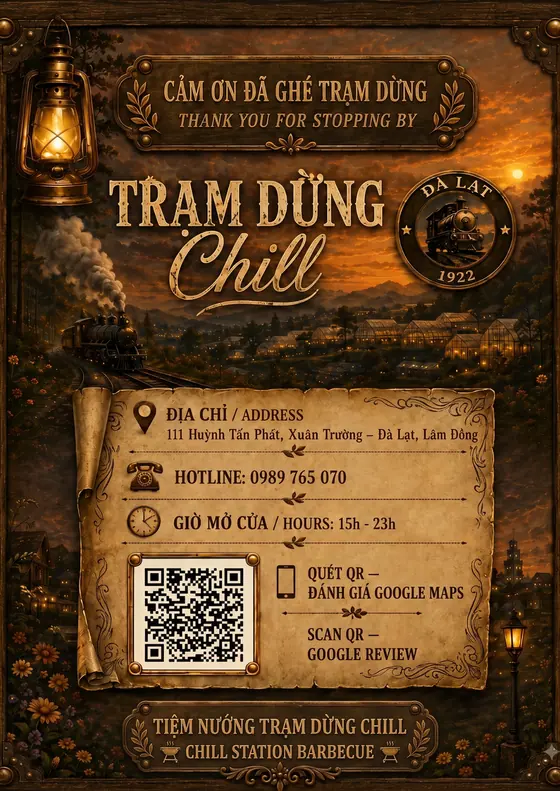
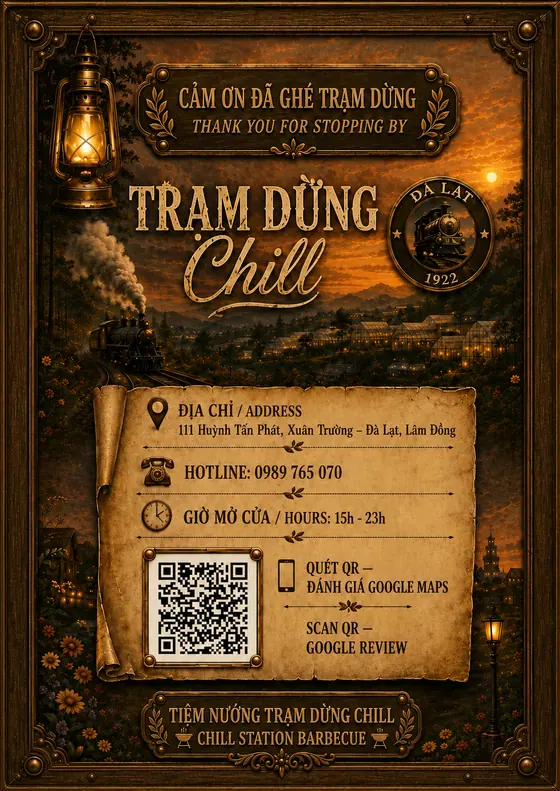
feat(menu): thay trang cam on ban 19:26 — GIU NGUYEN trang lai rai
Sep Tuan gui hai trang, chi thay mot:

- Trang 26 (cam on): THAY. Doc lai toan bo chu — dia chi 111 Huynh Tan Phat,
  hotline 0989 765 070, gio 15h-23h, dong chan "TIEM NUONG TRAM DUNG CHILL /
  CHILL STATION BARBECUE" — dung het.

- Trang 12 (lai rai 11): GIU BAN CU. Ban moi bi loi dong dau: "Gia tren Menu
  DA bao GOM VAT" mat dau, dung ra la "da bao gom" (chu 'a' co dau nga va chu
  'o' co dau huyen). Ban dang chay dung ca hai dong nen thay vao la lui mot
  buoc. Da soi bang cach crop dung vung chu cua ca hai ban roi so.

seo-geo-verify: 32/32 PASS

diff --git a/menu.html b/menu.html
@@ -1415,8 +1415,8 @@
                     <figcaption class="flip-page-caption">Trang 25/26 — Rượu</figcaption>
                 </figure>
                 <figure class="flip-page" data-page="26" data-group="lien-he" data-group-label="Liên hệ" data-group-i18n="flip.group.contact">
-                    <img src="assets/menu-pages/menu-quan-nuong-da-lat-26-dia-chi-gio-mo-cua-danh-gia-google-1000.webp?v=83eae253"
-                         srcset="assets/menu-pages/menu-quan-nuong-da-lat-26-dia-chi-gio-mo-cua-danh-gia-google-560.webp?v=97257d27 560w, assets/menu-pages/menu-quan-nuong-da-lat-26-dia-chi-gio-mo-cua-danh-gia-google-1000.webp?v=83eae253 1000w"
+                    <img src="assets/menu-pages/menu-quan-nuong-da-lat-26-dia-chi-gio-mo-cua-danh-gia-google-1000.webp?v=867993f9"
+                         srcset="assets/menu-pages/menu-quan-nuong-da-lat-26-dia-chi-gio-mo-cua-danh-gia-google-560.webp?v=c872d964 560w, assets/menu-pages/menu-quan-nuong-da-lat-26-dia-chi-gio-mo-cua-danh-gia-google-1000.webp?v=867993f9 1000w"
                          sizes="(min-width: 900px) 46vw, 92vw"
                          width="1055" height="1491"
                          alt="Trang cuối menu Trạm Dừng Chill: địa chỉ 111 Huỳnh Tấn Phát, Xuân Trường - Đà Lạt, hotline 0989 765 070, giờ mở cửa 15h-23h, mã QR đánh giá Google Maps"
